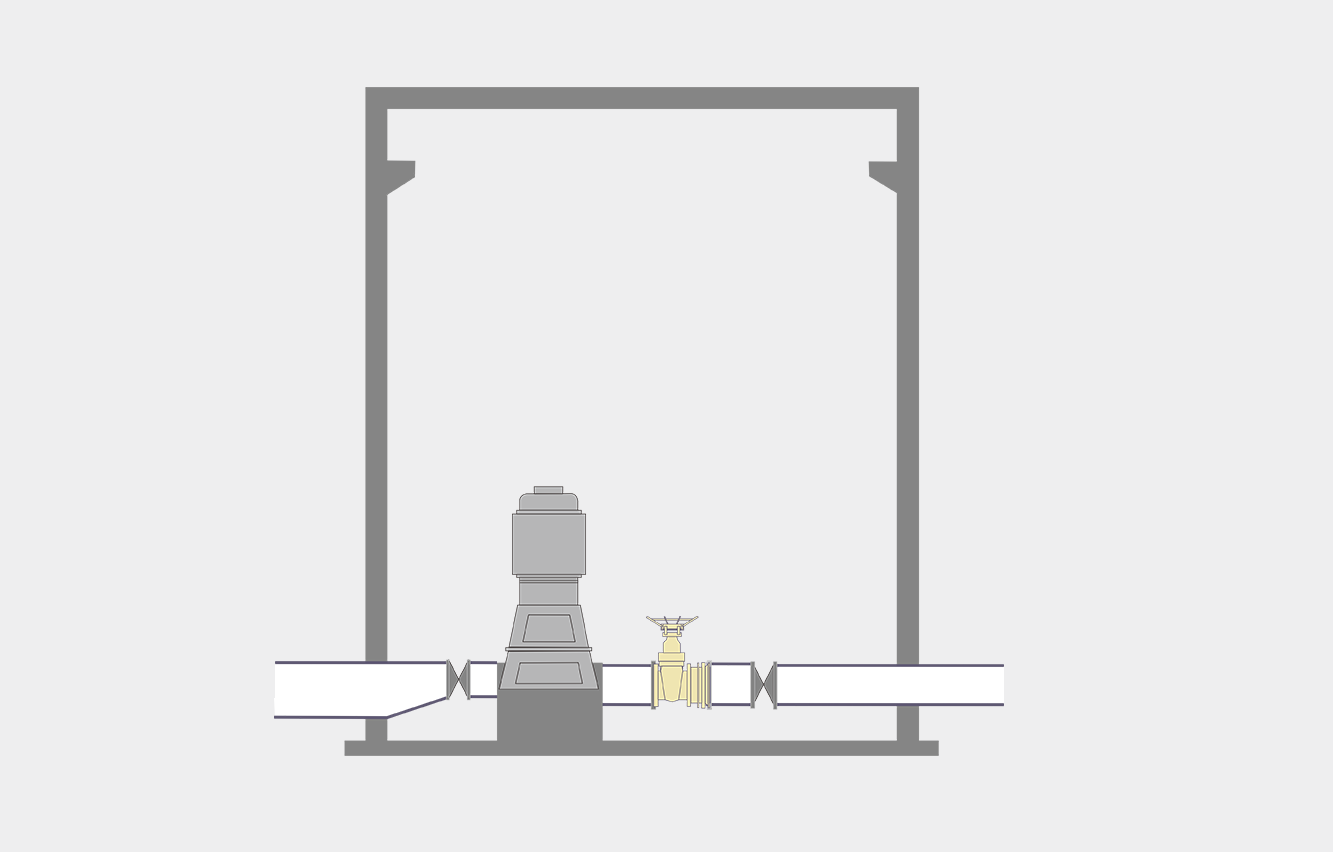
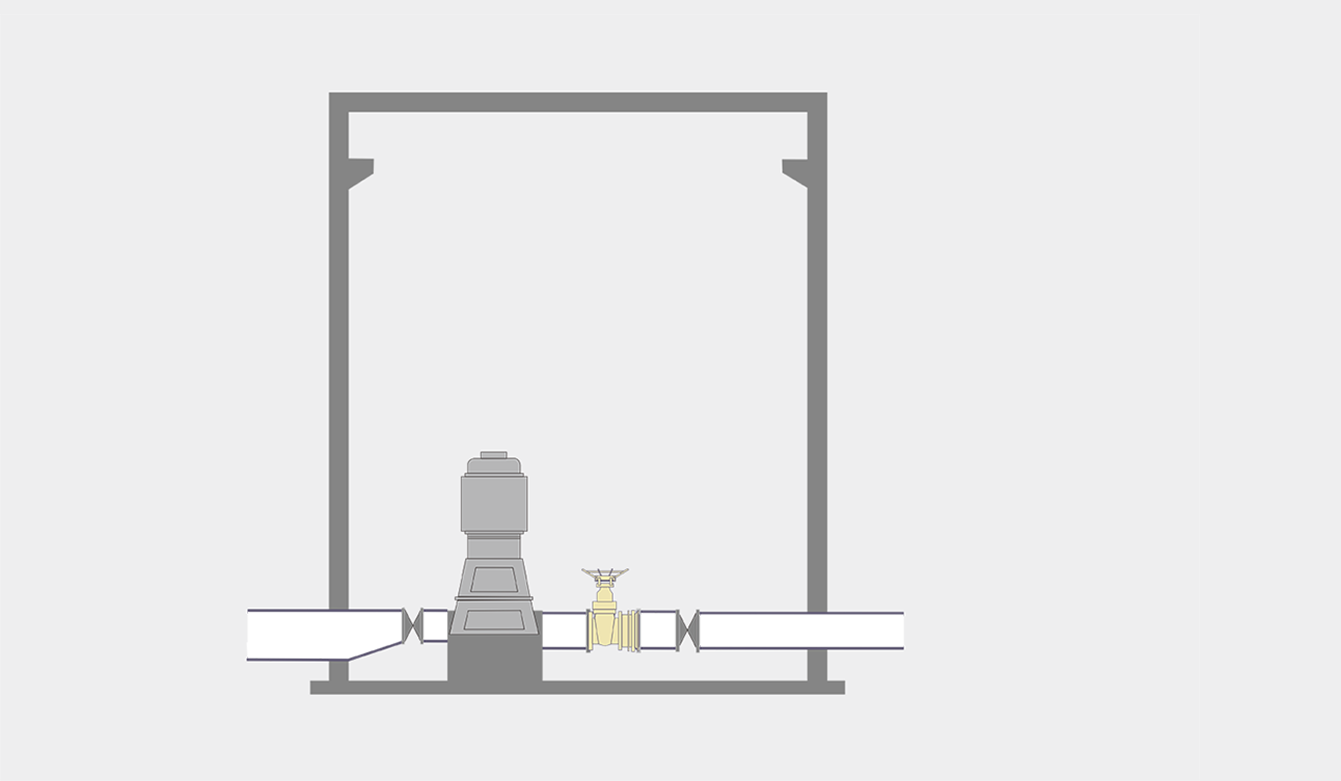
配水泵房底图大小及动画调整。

Changed region(s): [[0.1845, 0.0922, 0.7382, 0.8912]]

diff --git a/WebRoot/js/ps.js b/WebRoot/js/ps.js
@@ -14,21 +14,25 @@ oCanvas.domReady(function () {
         color_SC="#43d9f9";
     var SC00=createSC({
         parent:canvas,
-        x:275,y:665,height:58,width:225,trail_flag:0,speed:speed_SC*0.18,color:color_SC
+        x:247,y:600,height:58,width:159,trail_flag:0,speed:speed_SC*0.3,color:color_SC
+    });
+    var SC001=createSC({
+        parent:canvas,
+        x:422,y:610,height:35,width:27,trail_flag:0,speed:speed_SC,color:color_SC
     });
     var SC01=createSC({
         parent:canvas,
-        x:601,y:665,height:39,width:51,trail_flag:0,speed:speed_SC,color:color_SC
+        x:542,y:615,height:39,width:51,trail_flag:0,speed:speed_SC,color:color_SC
     });
 
     var SC02=createSC({
         parent:canvas,
-        x:707,y:665,height:39,width:44,trail_flag:0,speed:speed_SC,color:color_SC
+        x:638,y:615,height:39,width:44,trail_flag:0,speed:speed_SC,color:color_SC
     });
 
     var SC03=createSC({
         parent:canvas,
-        x:776,y:665,height:39,width:228,trail_flag:0,speed:speed_SC*0.2,color:color_SC
+        x:700,y:615,height:39,width:210,trail_flag:0,speed:speed_SC*0.21,color:color_SC
     });
 
     var bg = canvas.display.image({
@@ -40,8 +44,17 @@ oCanvas.domReady(function () {
     var GD01=createGD({
         parent:canvas,
         cells:[
-            {x_cell: 277, y_cell: 681},
-            {x_cell: 494, y_cell: 681}
+            {x_cell: 247, y_cell: 626},
+            {x_cell: 406, y_cell: 626}
+        ],
+        GDwidth:width_all,
+        color:color_GD
+    });
+    var GD001=createGD({
+        parent:canvas,
+        cells:[
+            {x_cell: 423, y_cell: 626},
+            {x_cell: 472, y_cell: 626}
         ],
         GDwidth:width_all,
         color:color_GD
@@ -50,8 +63,8 @@ oCanvas.domReady(function () {
     var GD02=createGD({
         parent:canvas,
         cells:[
-            {x_cell: 604, y_cell: 686},
-            {x_cell: 655, y_cell: 686}
+            {x_cell: 542, y_cell: 631},
+            {x_cell: 591, y_cell: 631}
         ],
         GDwidth:width_all,
         color:color_GD
@@ -60,8 +73,8 @@ oCanvas.domReady(function () {
     var GD03=createGD({
         parent:canvas,
         cells:[
-            {x_cell: 707, y_cell: 686},
-            {x_cell: 755, y_cell: 686}
+            {x_cell: 638, y_cell: 631},
+            {x_cell: 680, y_cell: 631}
         ],
         GDwidth:width_all,
         color:color_GD
@@ -69,8 +82,8 @@ oCanvas.domReady(function () {
     var GD04=createGD({
         parent:canvas,
         cells:[
-            {x_cell: 772, y_cell: 686},
-            {x_cell: 1005, y_cell: 686}
+            {x_cell: 700, y_cell: 631},
+            {x_cell: 935, y_cell: 631}
         ],
         GDwidth:width_all,
         color:color_GD
@@ -82,7 +95,7 @@ oCanvas.domReady(function () {
     }).add();
 
     var txt1=canvas.display.text({
-        x:643,
+        x:580,
         y:25,
         origin: { x:"center", y: "top" },
         font: "bold 36px 微软雅黑",
@@ -92,8 +105,8 @@ oCanvas.domReady(function () {
     canvas.addChild(txt1);
 
     var txt2=canvas.display.text({
-        x:304,
-        y:611,
+        x:280,
+        y:578, 
         origin: { x:"center", y: "top" },
         font: "bold 25px 微软雅黑",
         fill:"#337ab7",
@@ -101,8 +114,8 @@ oCanvas.domReady(function () {
     }).add();
 
     var txt3=canvas.display.text({
-        x:1035,
-        y:611,
+        x:930,
+        y:578,
         origin: { x:"center", y: "top" },
         font: "bold 25px 微软雅黑",
         fill:"#337ab7",
@@ -110,8 +123,10 @@ oCanvas.domReady(function () {
     }).add();
 
     canvas.setLoop(function () {
-        GD01.advance();        
+        GD01.advance();
+        GD001.advance();
         SC00.advance();
+        SC001.advance();
         GD02.advance();
         SC01.advance();
         SC02.advance();
@@ -120,6 +135,10 @@ oCanvas.domReady(function () {
         GD04.advance();
 
         if(GD01.full==1){
+        	SC001.start = 1;
+        	GD001.paused = 1;
+        }
+        if(GD001.full==1){
         	SC01.start = 1;
         	GD02.paused = 1;
         }
